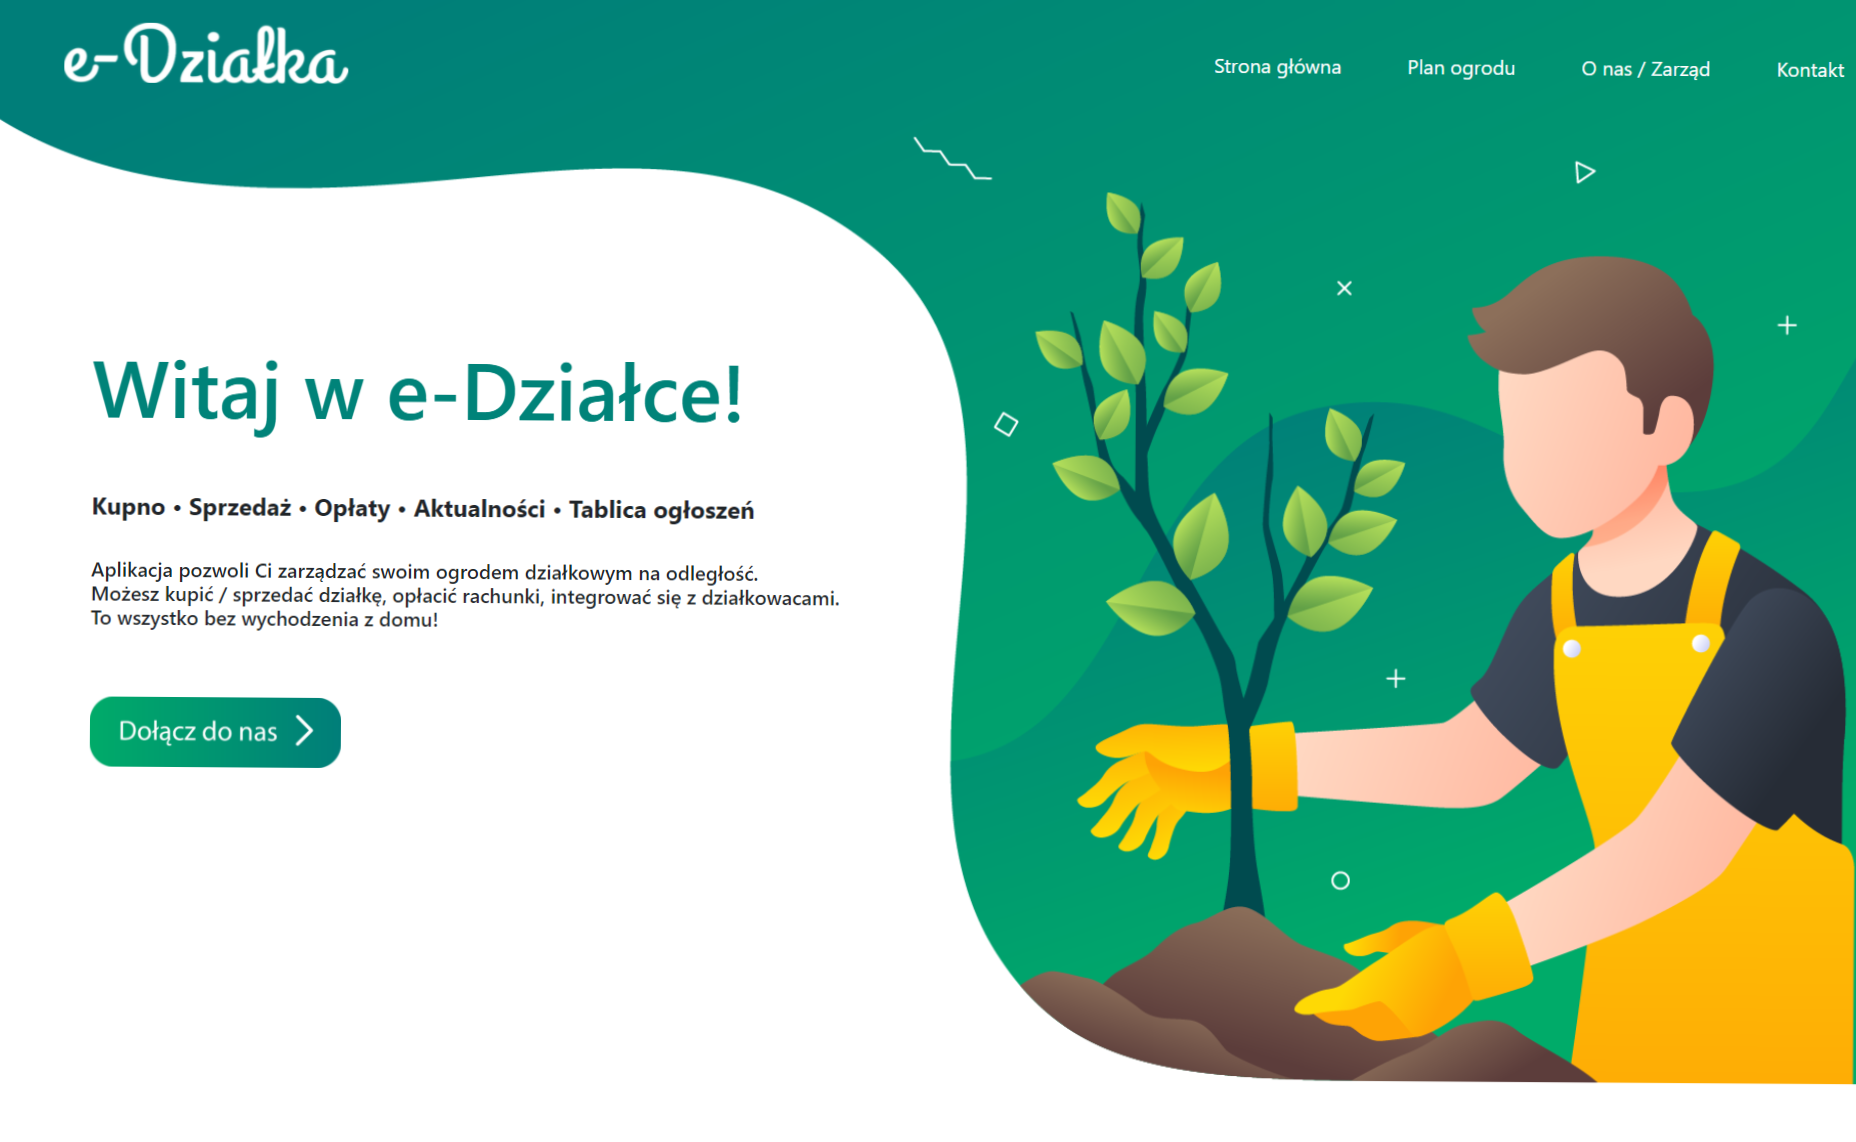
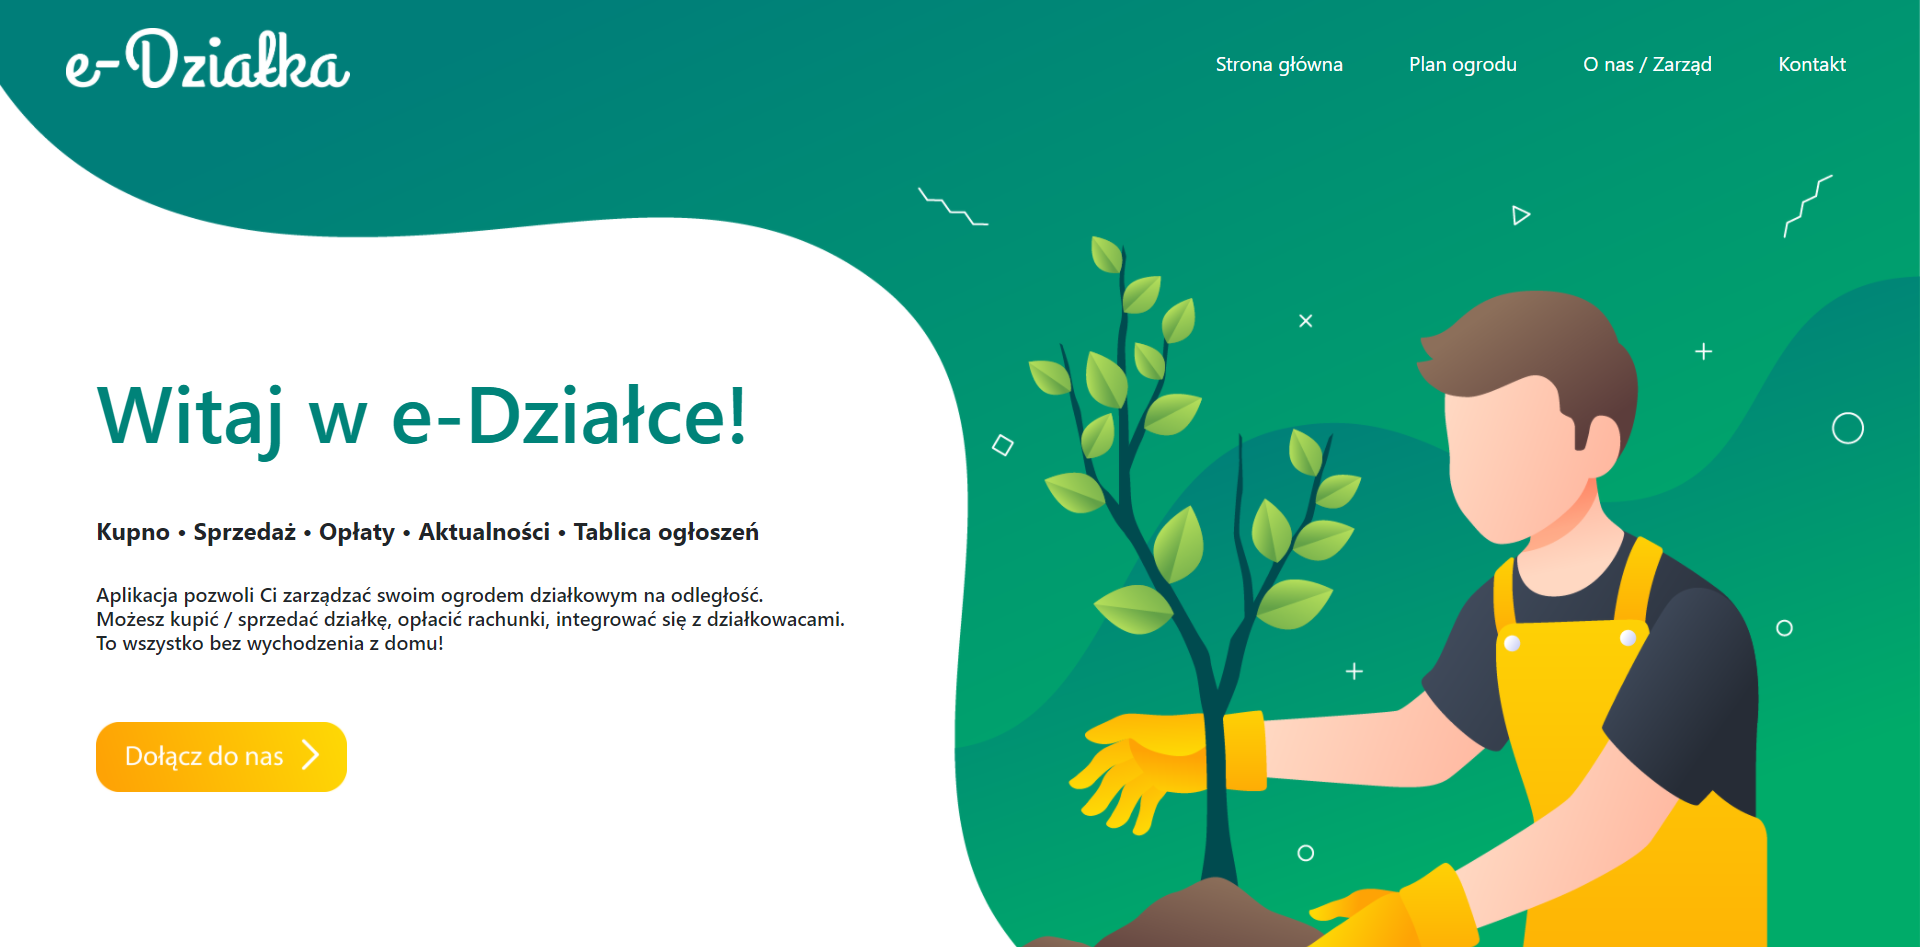
.

diff --git a/client/src/pages/About.jsx b/client/src/pages/About.jsx
@@ -35,16 +35,16 @@ class About extends Component {
             <Row>
               <Col sm={{ span: 2 }} align="center" >
                 <ListGroup >
-                  <ListGroup.Item variant="success" action href="#link1">
+                  <ListGroup.Item action href="#link1">
                     O nas
               </ListGroup.Item>
-                  <ListGroup.Item variant="success" action href="#link2" >
+                  <ListGroup.Item action href="#link2" >
                     Skład zarządu
               </ListGroup.Item>
-                  <ListGroup.Item variant="success" action href="#link3" >
+                  <ListGroup.Item action href="#link3" >
                     Ogłoszenia zarządu
               </ListGroup.Item>
-                  <ListGroup.Item variant="success" action href="#link4">
+                  <ListGroup.Item action href="#link4">
                     RODO
               </ListGroup.Item>
                 </ListGroup>

diff --git a/client/src/pages/FrontPage.jsx b/client/src/pages/FrontPage.jsx
@@ -18,7 +18,7 @@ const Content = styled.div.attrs({
 const Section = styled.div.attrs({
 
 })` height: 80vh;
-    margin-top: 150px;
+    margin-top: 170px;
     padding: 5vw;    
     font-style: 'Gill Sans MT';
 `
@@ -31,9 +31,10 @@ const Title = styled.h1.attrs({
 
 const Footer = styled.footer.attrs({
 
-})`text-align: center;
-color: #008379;
-padding: 15px;
+})`
+    text-align: center;
+    color: #008379;
+    padding: 15px;
 `
 
 class FrontPage extends Component {
